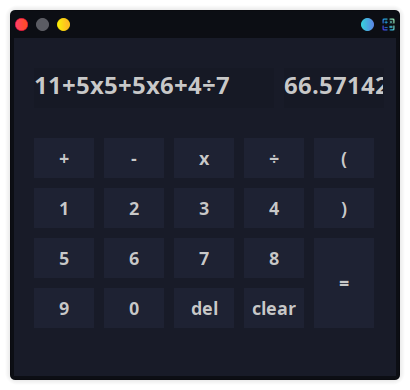
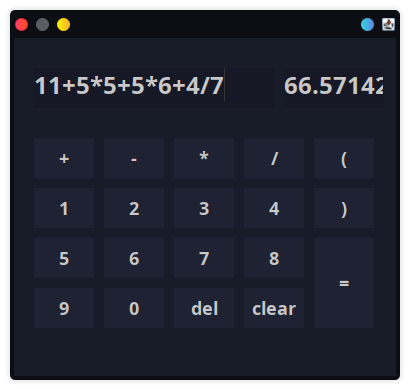
update

diff --git a/src/controllers/KeyboardController.java b/src/controllers/KeyboardController.java
@@ -13,7 +13,6 @@ public class KeyboardController implements KeyListener {
     private DisplayView labelHitung;
     private DisplayView labelHasil;
     public boolean first = true;
-    public boolean ops = false;
 
     // Constructor
     public KeyboardController (DisplayView labelHitung, DisplayView labelHasil) {
@@ -50,69 +49,6 @@ public class KeyboardController implements KeyListener {
 
     @Override
     public void keyTyped(KeyEvent evt) {
-        
-        String str = Character.toString(evt.getKeyChar());
-        String insideCalc;
-        int i;
-        String[] listOps = {"+", "-"};
-
-        for (i = 0; i < 12; i++) {
-
-            if (str.equals(i+"")) {
-                insideCalc = first ? str : labelHitung.getText() + str;
-                labelHitung.setText(insideCalc);
-                ops = true;
-                if (first)
-                    first = false;
-
-            } else if (i > 9 && ops) {
-
-                if (str.equals(listOps[i-10])) {
-                    insideCalc = first ? str : labelHitung.getText() + str;
-                    labelHitung.setText(insideCalc);
-                    ops = false;
-                    if (first)
-                        first = false;
-
-                }
-
-            } else if (str.equals("(") && !ops) {
-
-                insideCalc = first ? str : labelHitung.getText() + str;
-                labelHitung.setText(insideCalc);
-                ops = false;
-                if (first)
-                    first = false;
-
-            } else if (str.equals(")") && ops) {
-                
-                insideCalc = first ? str : labelHitung.getText() + str;
-                labelHitung.setText(insideCalc);
-                ops = true;
-                if (first)
-                    first = false;
-
-            }
-
-        }
-
-        if (str.equals("/") && ops) {
-            str = "÷";
-            insideCalc = first ? str : labelHitung.getText() + str;
-            labelHitung.setText(insideCalc);
-            ops = false;
-            if (first)
-                first = false;
-
-        } else if (str.equals("*") && ops) {
-            str = "x";
-            insideCalc = first ? str : labelHitung.getText() + str;
-            labelHitung.setText(insideCalc);
-            ops = false;
-            if (first)
-                first = false;
-
-        }
 
     }
 

diff --git a/src/controllers/ClassController.java b/src/controllers/ClassController.java
@@ -32,7 +32,7 @@ public class ClassController implements ActionListener {
         int i;
         String insideCalc;
 
-        String[] listOps = {"+", "-", "x", "÷", "("};
+        String[] listOps = {"+", "-", "*", "/", "(", ")"};
         if (str.equals("=")) {
 
             labelHasil.setText(hasil.hitung(labelHitung.getText())+"");
@@ -55,36 +55,18 @@ public class ClassController implements ActionListener {
             if (str.equals(i+"")) {
                 insideCalc = key.first ? str : labelHitung.getText() + str;
                 labelHitung.setText(insideCalc);
-                key.ops = true;
                 if (key.first)
                     key.first = false;
 
-            } else if (i > 9 && key.ops) {
+            } else if (i > 9) {
                 
                 if (str.equals(listOps[i-10])) {
                     insideCalc = key.first ? str : labelHitung.getText() + str;
                     labelHitung.setText(insideCalc);
-                    key.ops = false;
                     if (key.first)
                         key.first = false;
 
                 }
-
-            } else if (str.equals("(") && !key.ops) {
-
-                insideCalc = key.first ? str : labelHitung.getText() + str;
-                labelHitung.setText(insideCalc);
-                key.ops = false;
-                if (key.first)
-                    key.first = false;
-
-            } else if (str.equals(")") && key.ops) {
-                
-                insideCalc = key.first ? str : labelHitung.getText() + str;
-                labelHitung.setText(insideCalc);
-                key.ops = true;
-                if (key.first)
-                    key.first = false;
 
             }
 

diff --git a/src/controllers/StringController.java b/src/controllers/StringController.java
@@ -54,7 +54,7 @@ public class StringController {
 
          double hasil = 0;
          int i, j;
-         char[] operator = {'÷', 'x', '-', '+'};
+         char[] operator = {'/', '*', '-', '+'};
 
          for (i = 0; i < str.length(); i++) {
 
@@ -105,7 +105,7 @@ public class StringController {
                limit = true;
 
             }
-            if (pemecah.length-1 == 1) {
+            if (pemecah.length-1 == 1 && !stkOptA.empty()) {
 
                stkAngka.push(Double.parseDouble(pemecah[i]));
                stkOptB.push(stkOptA.peek());

diff --git a/src/models/ClassModel.java b/src/models/ClassModel.java
@@ -23,8 +23,8 @@ public class ClassModel {
     public String[][] buttonOprator = {
         { "+", "60", "40", "20",  "100" },
         { "-", "60", "40", "90", "100" },
-        { "x", "60", "40", "160", "100" },
-        { "÷", "60", "40", "230", "100" }
+        { "*", "60", "40", "160", "100" },
+        { "/", "60", "40", "230", "100" }
     };
     public String[][] buttonControl = {
         { "del",   "60", "40", "160", "250" },

diff --git a/src/views/DisplayView.java b/src/views/DisplayView.java
@@ -17,7 +17,6 @@ public class DisplayView extends JTextArea {
         setBounds(x, y, width, height);
         setBackground(background);
         setForeground(font);
-        setFocusable(false);
         setFont(new  Font("Arial", Font.BOLD, 24));
         setAlignmentX(Component.LEFT_ALIGNMENT);
 

diff --git a/src/App.java b/src/App.java
@@ -7,8 +7,6 @@ public class App {
     public static void main(String[] args) throws Exception {
 
         new ClassView();
-        // 11+5x5+5x6+4÷7
-        // 10x(8+2)+5+5x4
 
     }
 }

diff --git a/README.md b/README.md
@@ -47,3 +47,5 @@ Anda dapat menggunakan aplikasi kalkulator ini sebagaimana kalkulator digunakan.
 ![Ini gambar](docs/img/ss1.png)
 ###### Gambar 2. Mencoba menghitung beberapa angka acak
 ![Ini gambar](docs/img/ss2.png)
+###### Gambar 3. Menghitung angka acak beserta tanda kurung
+![Ini gambar](docs/img/ss2.png)
